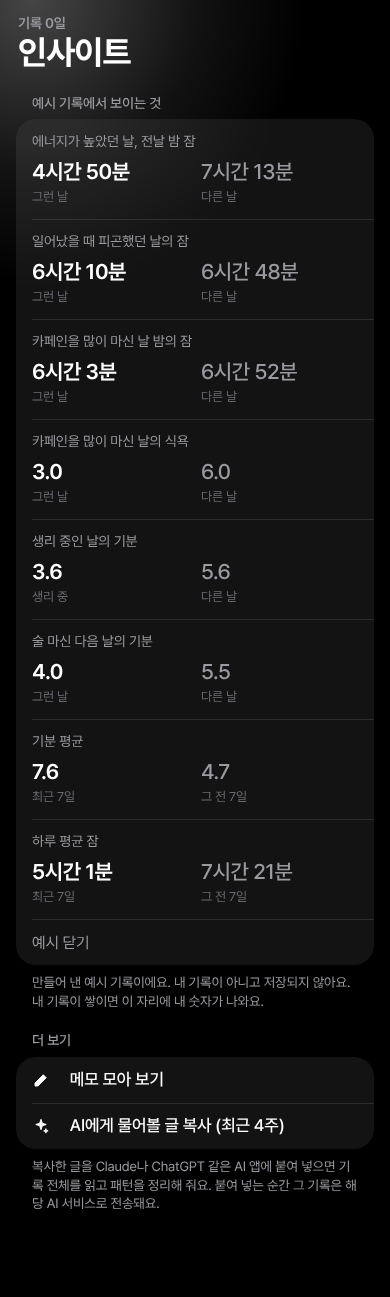
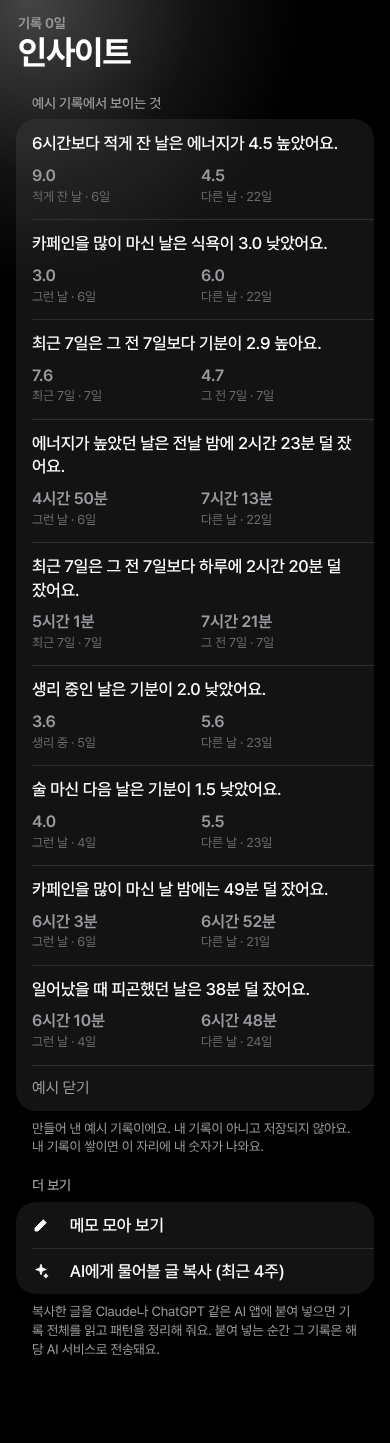
Tide: insights lead with a one-line finding, biggest difference first
Two bare numbers did not say anything on their own. Each insight now starts with a plain sentence (for example 'on days after less than 6 hours of sleep, energy was 4.5 higher'), with the two averages and how many days each covers underneath, and the list is sorted by the size of the difference. Added comparisons: short sleep and energy, days without medication and mood, and the lowest-mood weekday.

Claude-Session: https://claude.ai/code/session_01Du4KAy7crrN67i73oW7iBF

diff --git a/mood/js/analysis.js b/mood/js/analysis.js
@@ -1,7 +1,7 @@
 // 초기 신호 · 인사이트 · 진료용 요약 계산 (전부 이 폰 안에서)
 import { SIDE_EFFECTS, SIGNS, TAGS, cafMg, drinkText } from './constants.js';
-import { addDays, durText, today } from './dates.js';
-import { T } from './i18n.js';
+import { WD, addDays, durText, parse, today } from './dates.js';
+import { F, T } from './i18n.js';
 import { aided, medsFor, medsText } from './meds.js';
 import { db } from './store.js';
 
@@ -27,48 +27,76 @@ export function signals() {
   return out;
 }
 
-// 인사이트: 두 묶음의 평균을 나란히 놓은 비교들. { title, a: [이름, 값], b: [이름, 값] }
-// 화면은 문장 대신 두 숫자를 크게 보여 준다. 차이가 뚜렷할 때만 넣는다.
-// entries를 주면 그 기록으로 계산한다 (예시 기록 미리 보기). 약 비교는 내 약 기록을 보기 때문에 내 기록일 때만 넣는다.
+// 인사이트: 두 묶음의 평균을 견준 관찰들. 차이가 큰 것부터 나온다.
+//   { text: 한 줄 결론, a: [이름, 값, 날 수], b: [이름, 값, 날 수] }
+// 차이가 뚜렷할 때만 넣는다. entries를 주면 그 기록으로 계산한다 (예시 기록 미리 보기).
+// 약에 관한 비교는 내 약 기록을 보기 때문에 내 기록일 때만 넣는다.
 export function insights(entries = db.entries) {
-  const all = Object.keys(entries).sort().map((k) => entries[k]), out = [];
+  const all = Object.keys(entries).sort().map((k) => entries[k]), out = [], mine = entries === db.entries;
   if (all.length < INSIGHT_MIN_DAYS) return out;
   const mean = (list, key) => avg(list.map((e) => e[key]));
   const dur = (m) => durText(Math.round(m)), num = (x) => x.toFixed(1);
-  // 두 묶음(각 min일 이상)의 평균이 gap 이상 차이 나면 넣는다
-  const compare = (title, key, a, b, labels, { min = 3, gap, fmt }) => {
+  // 두 묶음(각 min일 이상)의 평균이 gap 이상 차이 나면 넣는다. say는 [앞쪽이 낮을 때 문장, 높을 때 문장], {0}에 차이가 들어간다.
+  // unit은 "한 칸"의 크기(수면 60분, 점수 1점)로, 서로 다른 항목의 차이를 같은 잣대로 줄 세울 때 쓴다.
+  const compare = (key, a, b, labels, { min = 3, gap, fmt, unit }, say) => {
     if (a.length < min || b.length < min) return;
-    const x = mean(a, key), y = mean(b, key);
-    if (Math.abs(x - y) >= gap) out.push({ title, a: [labels[0], fmt(x)], b: [labels[1], fmt(y)] });
+    const x = mean(a, key), y = mean(b, key), d = Math.abs(x - y);
+    if (d < gap) return;
+    out.push({ text: F(say[x < y ? 0 : 1], fmt(d)), a: [labels[0], fmt(x), a.length], b: [labels[1], fmt(y), b.length], weight: d / unit });
   };
-  const sleep = { gap: 20, fmt: dur }, days = [T('그런 날'), T('다른 날')];
+  const sleep = { gap: 20, fmt: dur, unit: 60 }, score = { gap: 0.8, fmt: num, unit: 1 }, days = [T('그런 날'), T('다른 날')];
   // 항목을 따로따로 적을 수 있어서 빈 값(null)이 섞여 있다. null은 비교에서 0처럼 굴기 때문에, 값이 있는 날만 골라서 나눈다.
   const has = (key) => (e) => e[key] != null;
-  const sl = all.filter(has('sleepMin')), slE = sl.filter(has('energy')), slM = sl.filter(has('mood'));
-  compare(T('에너지가 높았던 날, 전날 밤 잠'), 'sleepMin', slE.filter((e) => e.energy >= 7), slE.filter((e) => e.energy < 7), days, sleep);
-  compare(T('기분이 가라앉은 날, 전날 밤 잠'), 'sleepMin', slM.filter((e) => e.mood <= 3), slM.filter((e) => e.mood > 3), days, sleep);
-  compare(T('일어났을 때 피곤했던 날의 잠'), 'sleepMin', sl.filter((e) => e.tired), sl.filter((e) => !e.tired), days, sleep);
-  // 카페인 많이 마신 날 → 그날 밤 잠 (다음 날 기록의 수면)
-  const night = (e) => entries[addDays(e.date, 1)];
+  const sl = all.filter(has('sleepMin')), slE = sl.filter(has('energy')), slM = sl.filter(has('mood')), withMood = all.filter(has('mood'));
+  const night = (e) => entries[addDays(e.date, 1)];   // 그날 밤의 잠과 다음 날 기분은 다음 날 기록에 있다
+
+  // 잠과 에너지·기분
+  compare('energy', slE.filter((e) => e.sleepMin < 360), slE.filter((e) => e.sleepMin >= 360), [T('적게 잔 날'), T('다른 날')], score,
+    ['6시간보다 적게 잔 날은 에너지가 {0} 낮았어요.', '6시간보다 적게 잔 날은 에너지가 {0} 높았어요.']);
+  compare('sleepMin', slE.filter((e) => e.energy >= 7), slE.filter((e) => e.energy < 7), days, sleep,
+    ['에너지가 높았던 날은 전날 밤에 {0} 덜 잤어요.', '에너지가 높았던 날은 전날 밤에 {0} 더 잤어요.']);
+  compare('sleepMin', slM.filter((e) => e.mood <= 3), slM.filter((e) => e.mood > 3), days, sleep,
+    ['기분이 가라앉은 날은 전날 밤에 {0} 덜 잤어요.', '기분이 가라앉은 날은 전날 밤에 {0} 더 잤어요.']);
+  compare('sleepMin', sl.filter((e) => e.tired), sl.filter((e) => !e.tired), days, sleep,
+    ['일어났을 때 피곤했던 날은 {0} 덜 잤어요.', '일어났을 때 피곤했던 날은 {0} 더 잤어요.']);
+  // 약
+  if (mine && db.meds.length) {
+    compare('mood', withMood.filter((e) => !medsFor(e.date).length), withMood.filter((e) => medsFor(e.date).length), [T('안 먹은 날'), T('먹은 날')], score,
+      ['약을 안 먹은 날은 기분이 {0} 낮았어요.', '약을 안 먹은 날은 기분이 {0} 높았어요.']);
+    compare('sleepMin', sl.filter(aided), sl.filter((e) => !aided(e)), [T('먹은 날'), T('안 먹은 날')], { ...sleep, min: 2 },
+      ['안정제·수면제를 먹은 날 밤에는 {0} 덜 잤어요.', '안정제·수면제를 먹은 날 밤에는 {0} 더 잤어요.']);
+  }
+  // 카페인 · 술 · 운동 · 생리
   const caf = all.filter((e) => e.caffeine != null && night(e) && night(e).sleepMin != null);
-  compare(T('카페인을 많이 마신 날 밤의 잠'), 'sleepMin', caf.filter((e) => e.caffeine >= 7).map(night), caf.filter((e) => e.caffeine < 7).map(night), days, sleep);
+  compare('sleepMin', caf.filter((e) => e.caffeine >= 7).map(night), caf.filter((e) => e.caffeine < 7).map(night), days, sleep,
+    ['카페인을 많이 마신 날 밤에는 {0} 덜 잤어요.', '카페인을 많이 마신 날 밤에는 {0} 더 잤어요.']);
   const ap = all.filter((e) => e.caffeine != null && e.appetite != null);
-  compare(T('카페인을 많이 마신 날의 식욕'), 'appetite', ap.filter((e) => e.caffeine >= 7), ap.filter((e) => e.caffeine < 7), days, { gap: 1, fmt: num });
-  const withMood = all.filter(has('mood'));
-  compare(T('생리 중인 날의 기분'), 'mood', withMood.filter((e) => e.period), withMood.filter((e) => !e.period), [T('생리 중'), T('다른 날')], { gap: 0.8, fmt: num });
-  if (entries === db.entries) compare(T('안정제·수면제를 먹은 날 밤의 잠'), 'sleepMin', sl.filter(aided), sl.filter((e) => !aided(e)), [T('먹은 날'), T('안 먹은 날')], { min: 2, gap: 0, fmt: dur });
-  // 술 마신 다음 날의 기분, 운동한 날 밤의 잠 (둘 다 다음 날 기록의 값)
+  compare('appetite', ap.filter((e) => e.caffeine >= 7), ap.filter((e) => e.caffeine < 7), days, { ...score, gap: 1 },
+    ['카페인을 많이 마신 날은 식욕이 {0} 낮았어요.', '카페인을 많이 마신 날은 식욕이 {0} 높았어요.']);
   const tagged = (k) => (e) => !!(e.tags && e.tags[k]);
   const nextMood = all.filter((e) => night(e) && night(e).mood != null);
-  compare(T('술 마신 다음 날의 기분'), 'mood', nextMood.filter(tagged('alcohol')).map(night), nextMood.filter((e) => !tagged('alcohol')(e)).map(night), days, { gap: 0.8, fmt: num });
+  compare('mood', nextMood.filter(tagged('alcohol')).map(night), nextMood.filter((e) => !tagged('alcohol')(e)).map(night), days, score,
+    ['술 마신 다음 날은 기분이 {0} 낮았어요.', '술 마신 다음 날은 기분이 {0} 높았어요.']);
   const nextSleep = all.filter((e) => night(e) && night(e).sleepMin != null);
-  compare(T('운동한 날 밤의 잠'), 'sleepMin', nextSleep.filter(tagged('exercise')).map(night), nextSleep.filter((e) => !tagged('exercise')(e)).map(night), days, sleep);
+  compare('sleepMin', nextSleep.filter(tagged('exercise')).map(night), nextSleep.filter((e) => !tagged('exercise')(e)).map(night), days, sleep,
+    ['운동한 날 밤에는 {0} 덜 잤어요.', '운동한 날 밤에는 {0} 더 잤어요.']);
+  compare('mood', withMood.filter((e) => e.period), withMood.filter((e) => !e.period), [T('생리 중'), T('다른 날')], score,
+    ['생리 중인 날은 기분이 {0} 낮았어요.', '생리 중인 날은 기분이 {0} 높았어요.']);
+  // 기분이 가장 낮은 요일 (요일마다 2일 이상 적었을 때)
+  const byDay = WD().map((name, d) => [name, withMood.filter((e) => parse(e.date).getDay() === d)]).filter(([, list]) => list.length >= 2);
+  if (byDay.length >= 4) {
+    const [name, low] = byDay.reduce((m, x) => (mean(x[1], 'mood') < mean(m[1], 'mood') ? x : m));
+    const rest = withMood.filter((e) => !low.includes(e)), d = mean(rest, 'mood') - mean(low, 'mood'), day = F('{0}요일', name);
+    if (d >= 1) out.push({ text: F('기분이 가장 낮은 요일은 {0}이에요.', day), a: [day, num(mean(low, 'mood')), low.length], b: [T('다른 요일'), num(mean(rest, 'mood')), rest.length], weight: d });
+  }
   // 최근 7일과 그 전 7일
   const t = today(), span = (from, to) => all.filter((e) => e.date > addDays(t, -from) && e.date <= addDays(t, -to));
   const now = span(7, 0), was = span(14, 7), weeks = [T('최근 7일'), T('그 전 7일')];
-  compare(T('기분 평균'), 'mood', now.filter(has('mood')), was.filter(has('mood')), weeks, { gap: 1, fmt: num });
-  compare(T('하루 평균 잠'), 'sleepMin', now.filter(has('sleepMin')), was.filter(has('sleepMin')), weeks, { gap: 30, fmt: dur });
-  return out;
+  compare('mood', now.filter(has('mood')), was.filter(has('mood')), weeks, { ...score, gap: 1 },
+    ['최근 7일은 그 전 7일보다 기분이 {0} 낮아요.', '최근 7일은 그 전 7일보다 기분이 {0} 높아요.']);
+  compare('sleepMin', now.filter(has('sleepMin')), was.filter(has('sleepMin')), weeks, { ...sleep, gap: 30 },
+    ['최근 7일은 그 전 7일보다 하루에 {0} 덜 잤어요.', '최근 7일은 그 전 7일보다 하루에 {0} 더 잤어요.']);
+  return out.sort((p, q) => q.weight - p.weight);
 }
 
 // AI 앱에 붙여 넣을 수 있는 최근 4주 요약 글

diff --git a/mood/js/i18n.js b/mood/js/i18n.js
@@ -121,16 +121,37 @@ const DICT = {
   '안 먹은 날': 'Not taken',
   '최근 7일': 'Last 7 days',
   '그 전 7일': '7 days before',
-  '에너지가 높았던 날, 전날 밤 잠': 'Sleep the night before high-energy days',
-  '기분이 가라앉은 날, 전날 밤 잠': 'Sleep the night before low-mood days',
-  '일어났을 때 피곤했던 날의 잠': 'Sleep on days you woke up tired',
-  '카페인을 많이 마신 날 밤의 잠': 'Sleep on nights after high-caffeine days',
-  '카페인을 많이 마신 날의 식욕': 'Appetite on high-caffeine days',
-  '생리 중인 날의 기분': 'Mood on period days',
-  '안정제·수면제를 먹은 날 밤의 잠': 'Sleep on nights with a sedative or sleep medication',
-  '기분 평균': 'Average mood',
-  '하루 평균 잠': 'Average sleep per night',
-  '내 기록의 평균을 견준 숫자예요. 원인이나 진단을 뜻하지 않아요.': 'These numbers compare averages from your log. They do not indicate a cause or a diagnosis.',
+  '적게 잔 날': 'Short nights',
+  '다른 요일': 'Other days',
+  '{0}요일': '{0}',
+  '6시간보다 적게 잔 날은 에너지가 {0} 낮았어요.': 'On days after less than 6 hours of sleep, energy was {0} lower.',
+  '6시간보다 적게 잔 날은 에너지가 {0} 높았어요.': 'On days after less than 6 hours of sleep, energy was {0} higher.',
+  '에너지가 높았던 날은 전날 밤에 {0} 덜 잤어요.': 'Before high-energy days you slept {0} less.',
+  '에너지가 높았던 날은 전날 밤에 {0} 더 잤어요.': 'Before high-energy days you slept {0} more.',
+  '기분이 가라앉은 날은 전날 밤에 {0} 덜 잤어요.': 'Before low-mood days you slept {0} less.',
+  '기분이 가라앉은 날은 전날 밤에 {0} 더 잤어요.': 'Before low-mood days you slept {0} more.',
+  '일어났을 때 피곤했던 날은 {0} 덜 잤어요.': 'On days you woke up tired you had slept {0} less.',
+  '일어났을 때 피곤했던 날은 {0} 더 잤어요.': 'On days you woke up tired you had slept {0} more.',
+  '약을 안 먹은 날은 기분이 {0} 낮았어요.': 'On days without medication, mood was {0} lower.',
+  '약을 안 먹은 날은 기분이 {0} 높았어요.': 'On days without medication, mood was {0} higher.',
+  '안정제·수면제를 먹은 날 밤에는 {0} 덜 잤어요.': 'On nights with a sedative or sleep medication you slept {0} less.',
+  '안정제·수면제를 먹은 날 밤에는 {0} 더 잤어요.': 'On nights with a sedative or sleep medication you slept {0} more.',
+  '카페인을 많이 마신 날 밤에는 {0} 덜 잤어요.': 'On nights after a lot of caffeine you slept {0} less.',
+  '카페인을 많이 마신 날 밤에는 {0} 더 잤어요.': 'On nights after a lot of caffeine you slept {0} more.',
+  '카페인을 많이 마신 날은 식욕이 {0} 낮았어요.': 'On high-caffeine days, appetite was {0} lower.',
+  '카페인을 많이 마신 날은 식욕이 {0} 높았어요.': 'On high-caffeine days, appetite was {0} higher.',
+  '술 마신 다음 날은 기분이 {0} 낮았어요.': 'The day after drinking, mood was {0} lower.',
+  '술 마신 다음 날은 기분이 {0} 높았어요.': 'The day after drinking, mood was {0} higher.',
+  '운동한 날 밤에는 {0} 덜 잤어요.': 'On nights after exercise you slept {0} less.',
+  '운동한 날 밤에는 {0} 더 잤어요.': 'On nights after exercise you slept {0} more.',
+  '생리 중인 날은 기분이 {0} 낮았어요.': 'On period days, mood was {0} lower.',
+  '생리 중인 날은 기분이 {0} 높았어요.': 'On period days, mood was {0} higher.',
+  '기분이 가장 낮은 요일은 {0}이에요.': 'Mood is lowest on {0}.',
+  '최근 7일은 그 전 7일보다 기분이 {0} 낮아요.': 'Over the last 7 days, mood is {0} lower than the 7 days before.',
+  '최근 7일은 그 전 7일보다 기분이 {0} 높아요.': 'Over the last 7 days, mood is {0} higher than the 7 days before.',
+  '최근 7일은 그 전 7일보다 하루에 {0} 덜 잤어요.': 'Over the last 7 days you slept {0} less per night than the 7 days before.',
+  '최근 7일은 그 전 7일보다 하루에 {0} 더 잤어요.': 'Over the last 7 days you slept {0} more per night than the 7 days before.',
+  '차이가 큰 것부터 나와요. 내 기록의 평균을 견준 것이고, 원인이나 진단을 뜻하지 않아요.': 'Largest differences come first. These compare averages from your log and do not indicate a cause or a diagnosis.',
   '더 보기': 'More',
   'AI에게 물어볼 글 복사 (최근 4주)': 'Copy text to ask an AI (last 4 weeks)',
   '인사이트': 'Insights',
@@ -147,8 +168,6 @@ const DICT = {
   '두통': 'Headache',
   '술': 'Alcohol',
   '운동': 'Exercise',
-  '술 마신 다음 날의 기분': 'Mood the day after drinking',
-  '운동한 날 밤의 잠': 'Sleep on nights after exercise',
   '진료 · 약 변경 기록': 'Visits · medication changes',
   '약 변경': 'Med change',
   '진료 후': 'Since visit',

diff --git a/mood/js/views/insight.js b/mood/js/views/insight.js
@@ -8,9 +8,9 @@ import { sampleEntries } from '../sample.js';
 import { ui } from '../state.js';
 import { db } from '../store.js';
 
-// 비교 한 줄: 위에 무엇을 견준 것인지, 아래에 두 숫자를 나란히 (앞쪽이 눈에 띄게)
-const compareRow = ({ title, a, b }) => `<div class="li cmp"><div class="cmp-t">${title}</div>
-  <div class="cmp-v"><div><b>${a[1]}</b><span>${a[0]}</span></div><div class="other"><b>${b[1]}</b><span>${b[0]}</span></div></div></div>`;
+// 관찰 한 줄: 위에 결론 문장, 아래에 그 근거인 두 평균과 며칠을 견준 것인지
+const side = ([name, value, n]) => `<div><b>${value}</b><span>${name} · ${F('{0}일', n)}</span></div>`;
+const compareRow = ({ text, a, b }) => `<div class="li cmp"><div class="cmp-t">${text}</div><div class="cmp-v">${side(a)}${side(b)}</div></div>`;
 
 export function viewInsight() {
   const n = Object.keys(db.entries).length, mine = insights(), sig = signals();
@@ -24,7 +24,7 @@ export function viewInsight() {
     <section class="card list">${list.length ? list.map(compareRow).join('') : empty}
       ${demo ? `<button class="li add dim" data-act="insightDemo">${T('예시 닫기')}</button>` : ''}</section>
     ${demo ? `<p class="secnote">${T('만들어 낸 예시 기록이에요. 내 기록이 아니고 저장되지 않아요. 내 기록이 쌓이면 이 자리에 내 숫자가 나와요.')}</p>`
-    : list.length ? `<p class="secnote">${T('내 기록의 평균을 견준 숫자예요. 원인이나 진단을 뜻하지 않아요.')}</p>` : ''}
+    : list.length ? `<p class="secnote">${T('차이가 큰 것부터 나와요. 내 기록의 평균을 견준 것이고, 원인이나 진단을 뜻하지 않아요.')}</p>` : ''}
     <div class="sec">${T('더 보기')}</div>
     <section class="card list">
       <button class="li add" data-act="notes">${IC.note}&nbsp; ${T('메모 모아 보기')}</button>

diff --git a/mood/app.css b/mood/app.css
@@ -384,10 +384,9 @@ input[type=date] { border: 0; outline: none; background: var(--card2); color: va
 .chip { background: var(--card2); border-radius: 999px; padding: 8px 15px; font-size: calc(14px * var(--fs, 1.12)); color: var(--muted); }
 .chip[aria-pressed=true] { background: var(--ink); color: var(--ink-inv); font-weight: 600; }
 
-/* 인사이트: 두 숫자를 나란히 놓은 비교 줄 */
+/* 인사이트: 결론 한 줄과 그 근거인 두 평균 */
 .li.cmp { display: block; padding: 13px 16px 14px; }
-.cmp-t { color: var(--muted); font-size: calc(12.5px * var(--fs, 1.12)); }
-.cmp-v { display: grid; grid-template-columns: 1fr 1fr; gap: 12px; margin-top: 7px; }
-.cmp-v b { display: block; font-family: var(--round); font-size: calc(19px * var(--fs, 1.12)); font-weight: 600; letter-spacing: -0.02em; }
+.cmp-t { font-size: calc(15px * var(--fs, 1.12)); font-weight: 500; line-height: 1.4; }
+.cmp-v { display: grid; grid-template-columns: 1fr 1fr; gap: 12px; margin-top: 9px; }
+.cmp-v b { display: block; font-family: var(--round); font-size: calc(14.5px * var(--fs, 1.12)); font-weight: 600; color: var(--muted); }
 .cmp-v span { display: block; color: var(--faint); font-size: calc(11.5px * var(--fs, 1.12)); margin-top: 1px; }
-.cmp-v .other b { color: var(--muted); font-weight: 500; }

diff --git a/mood/sw.js b/mood/sw.js
@@ -1,7 +1,7 @@
 // 오프라인에서도 열리도록 앱 파일을 저장해 둔다.
 // 인터넷이 될 때는 항상 최신 파일을 먼저 받아오고, 안 될 때만 저장본을 쓴다.
 // 앱 파일을 바꿔서 올릴 때마다 CACHE 숫자를 하나 올린다. js/ 에 파일을 더하면 JS 목록에도 더한다.
-const CACHE = 'tide-v64';
+const CACHE = 'tide-v65';
 const JS = ['main', 'config', 'i18n', 'constants', 'store', 'dates', 'theme', 'icons', 'dom', 'state', 'meds', 'analysis', 'sample', 'files', 'render', 'swipe', 'lock',
   'views/today', 'views/trend', 'views/insight', 'views/record', 'views/settings', 'views/clinic', 'views/notes'];
 const FILES = ['./', 'index.html', 'app.css', 'manifest.webmanifest',

diff --git a/mood/js/config.js b/mood/js/config.js
@@ -2,4 +2,4 @@
 export const KEY = 'tide.v1', OLD_KEY = 'harugyeol.v1';
 
 // 설정 화면 맨 아래에 보이는 번호. 올릴 때마다 sw.js의 CACHE 숫자와 같이 하나 올린다.
-export const VERSION = 64;
+export const VERSION = 65;
